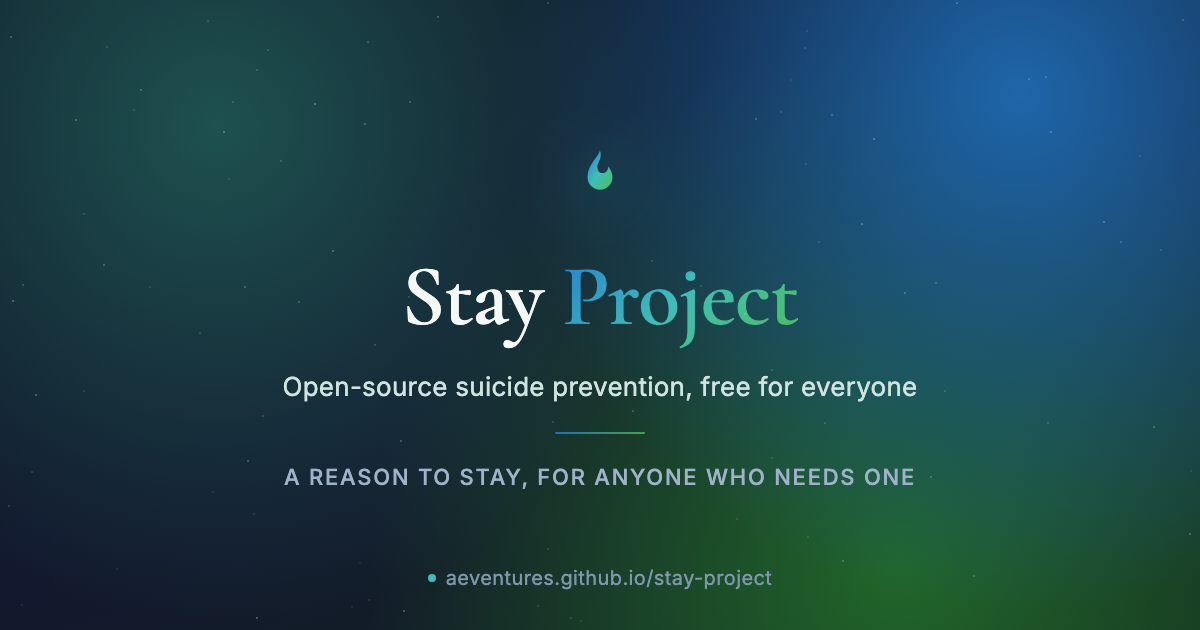
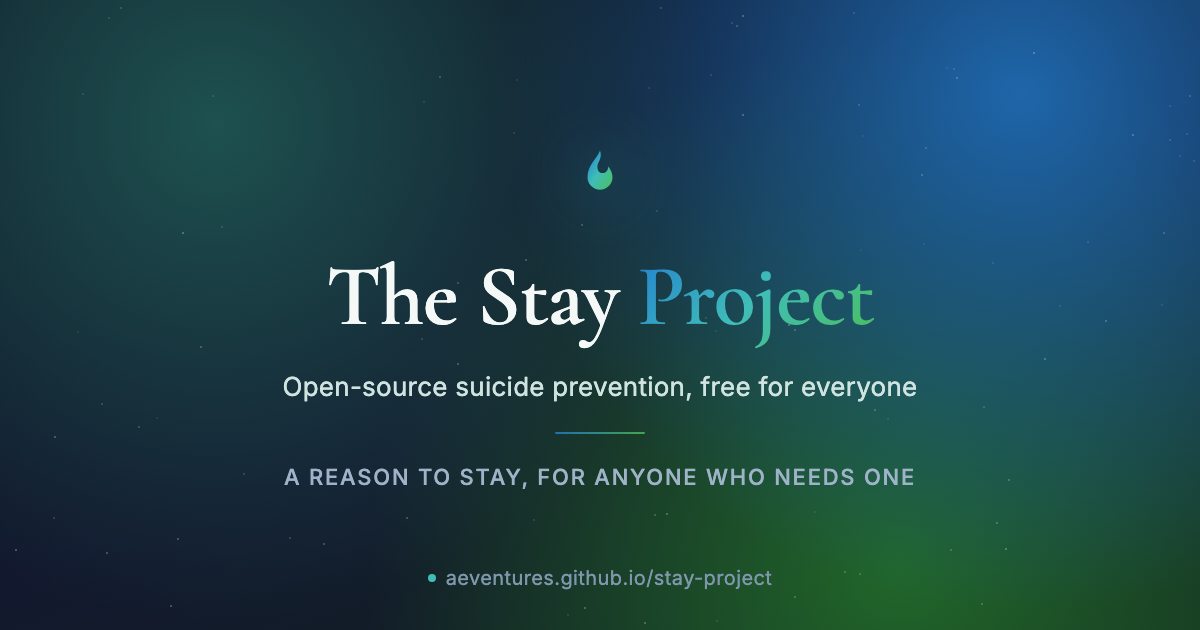
Rename brand to "The Stay Project"
Update wordmark, page title, Open Graph/Twitter meta, structured data,
README, LICENSE, and social-share thumbnail to use "The Stay Project"
consistently.

Generated with [Devin](https://devin.ai)

Changed region(s): [[0.2775, 0.4222, 0.74, 0.5429], [0.4625, 0.5429, 0.4933, 0.573], [0.4008, 0.5429, 0.4317, 0.573]]

diff --git a/index.html b/index.html
@@ -11,7 +11,7 @@
       href="https://fonts.googleapis.com/css2?family=Cormorant+Garamond:wght@400;500;600;700&family=Inter:wght@300;400;500;600;700&display=swap"
       rel="stylesheet"
     />
-    <title>Stay Project — Open-source suicide prevention, free for everyone</title>
+    <title>The Stay Project — Open-source suicide prevention, free for everyone</title>
     <meta
       name="description"
       content="The Stay Project is an open-source project building free, public suicide-prevention resources and tools. If you or someone you know is struggling, call or text 988 (US) any time."
@@ -20,8 +20,8 @@
 
     <!-- Open Graph -->
     <meta property="og:type" content="website" />
-    <meta property="og:site_name" content="Stay Project" />
-    <meta property="og:title" content="Stay Project — Open-source suicide prevention, free for everyone" />
+    <meta property="og:site_name" content="The Stay Project" />
+    <meta property="og:title" content="The Stay Project — Open-source suicide prevention, free for everyone" />
     <meta
       property="og:description"
       content="An open-source, public-benefit project building free suicide-prevention resources and tools. Free. Open. For everyone."
@@ -33,7 +33,7 @@
 
     <!-- Twitter / X -->
     <meta name="twitter:card" content="summary_large_image" />
-    <meta name="twitter:title" content="Stay Project — Open-source suicide prevention" />
+    <meta name="twitter:title" content="The Stay Project — Open-source suicide prevention" />
     <meta
       name="twitter:description"
       content="Open-source suicide-prevention resources and tools, free for everyone."
@@ -45,7 +45,7 @@
       {
         "@context": "https://schema.org",
         "@type": "Organization",
-        "name": "Stay Project",
+        "name": "The Stay Project",
         "url": "https://aeventures.github.io/stay-project/",
         "description": "Open-source infrastructure for suicide prevention, free for everyone.",
         "sameAs": ["https://github.com/AEVentures/stay-project"]

diff --git a/src/components/sections/footer.tsx b/src/components/sections/footer.tsx
@@ -21,7 +21,7 @@ export function Footer() {
         <div className="mt-12 grid gap-10 md:grid-cols-4">
           <div className="md:col-span-2">
             <a href="#top" className="font-display text-2xl font-semibold text-white">
-              Stay <span className="gradient-text">Project</span>
+              The Stay <span className="gradient-text">Project</span>
             </a>
             <p className="mt-4 max-w-md text-sm text-ink-300">
               Open, public suicide-prevention infrastructure, free for

diff --git a/src/components/sections/nav.tsx b/src/components/sections/nav.tsx
@@ -34,7 +34,7 @@ export function Nav() {
           href="#top"
           className="font-display text-2xl font-semibold tracking-tight text-ink-800"
         >
-          Stay <span className="gradient-text">Project</span>
+          The Stay <span className="gradient-text">Project</span>
         </a>
 
         <div className="hidden items-center gap-7 lg:flex">

diff --git a/README.md b/README.md
@@ -1,4 +1,4 @@
-# Stay Project
+# The Stay Project
 
 [![CI](https://github.com/AEVentures/stay-project/actions/workflows/ci.yml/badge.svg?branch=main)](https://github.com/AEVentures/stay-project/actions/workflows/ci.yml)
 [![Deploy](https://github.com/AEVentures/stay-project/actions/workflows/deploy.yml/badge.svg?branch=main)](https://github.com/AEVentures/stay-project/actions/workflows/deploy.yml)
